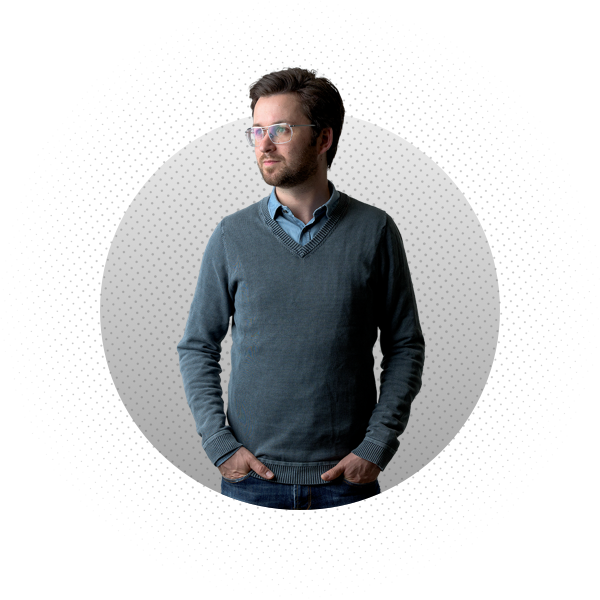
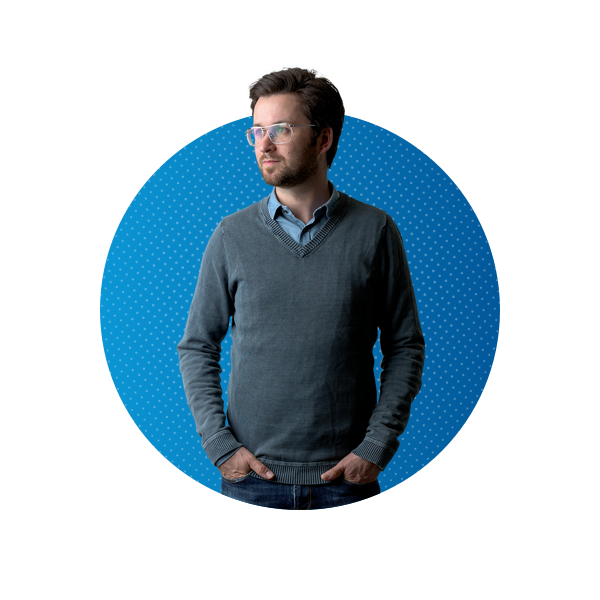
Welcome Seite anpassen und fixen

diff --git a/index.html b/index.html
@@ -109,7 +109,6 @@
 	<section class="navigation">
 
 		<ul id="menu" class="nav justify-content-center">
-
 			<li data-menuanchor="team" class="nav-item col-4">
 				<a class="nav-link" href="#contact">kontakt</a>
 			</li>
@@ -120,6 +119,7 @@
 				<a class="nav-link" href="#team">team</a>
 			</li>
 		</ul>
+
 	</section>
 	<section class="language">
 		<ul class="nav justify-content-center">
@@ -150,7 +150,7 @@
 					</div>
 				</div>
 			</div> -->
-			<div class="slide welcome">
+			<div class="slide welcome first">
 					<div class="intro">
 							<div class="col-12 content">
 								<h3>Welcome to</h3>
@@ -158,16 +158,16 @@
 								<h3 class="uppercase">Virtual Media<br></h1>
 						</div>
 					<div class="col-12 content">
-						<div class="row">
-							<div id="moveToFurniture" class="col-6 text-right logo_welcome">
-								<img class="pull-right" class="" src="assets/img/logos/FurnitureBase.png" />
-								<h3>FurnitureBase</h3>
-								<h4>Möbelvisualisierung</h4>
+						<div class="row justify-content-center">
+							<div id="moveToFurniture" class="col-5 text-right logo_welcome">
+								<img class="pull-right img-fluid logos" src="assets/img/logos/FurnitureBase.png" />
+								<h4>FurnitureBase</h4>
+								<h5>Möbelvisualisierung</h5>
 							</div>
-							<div id="moveToBook" class="col-6 text-left logo_welcome">
-								<img class="pull-left" src="assets/img/logos/BookBase.png" />
-								<h3>BookBase</h3>
-								<h4>Covervisualisierung</h4>
+							<div id="moveToBook" class="col-5 offset-md-1 text-left logo_welcome">
+								<img class="pull-left img-fluid logos" src="assets/img/logos/BookBase.png" />
+								<h4>BookBase</h4>
+								<h5>Covervisualisierung</h5>
 							</div>
 						</div>
 					</div>
@@ -357,12 +357,12 @@
 					</div>
 				</div>
 			</div> -->
-			<div class="slide welcome">
+			<div class="slide welcome book">
 				<div class="intro">
 					<div class="img-background">
 						<div class="col-12 content">
 							<h3>Willkommen bei</h3>
-							<h1>BookBase</h1>
+							<h1>Book Base</h1>
 					</div>
 				</div>
 				<div class="col-12 content">
@@ -373,7 +373,7 @@
 
 		<!-- Slide #5 Advantages / Ihre Vorteile -->
 
-		<div  data-anchor="test" class="slide advantages slide-style-list">
+		<div  data-anchor="test" class="slide book slide-style-list">
 			<div class="intro">
 				<div class="img-background">
 					<div class="col-12 content">
@@ -656,13 +656,26 @@ Abstimmungsaufwände reduzieren sich enorm.</p>
 </body>
 <script type="text/javascript">
 	$(document).on('click', '#moveToCustomer', function(){
-	$.fn.fullpage.moveTo(1, 4);
+	$.fn.fullpage.moveTo(2, 4);
 	});
 	$(document).on('click', '#moveToEverything', function(){
-	$.fn.fullpage.moveTo(1, 5);
+	$.fn.fullpage.moveTo(2, 5);
 	});
 	$(document).on('click', '#moveToCosts', function(){
-	$.fn.fullpage.moveTo(1, 6);
+	$.fn.fullpage.moveTo(2, 6);
+	});
+
+</script>
+
+<script type="text/javascript">
+	$(document).on('click', '#moveToCustomer', function(){
+	$.fn.fullpage.moveTo(2, 4);
+	});
+	$(document).on('click', '#moveToEverything', function(){
+	$.fn.fullpage.moveTo(2, 5);
+	});
+	$(document).on('click', '#moveToCosts', function(){
+	$.fn.fullpage.moveTo(2, 6);
 	});
 
 </script>

diff --git a/assets/css/style.css b/assets/css/style.css
@@ -89,7 +89,7 @@ p.hightlight{
 }
 
 a{
-  color: #fff;
+  color: #6E6E6E;
 
 }
 
@@ -145,6 +145,8 @@ h1.icon.big{
 #overlay .col-3{
   margin-bottom: 10vh;
 }
+
+
 
 .img-overlay{
   position: absolute;
@@ -355,22 +357,48 @@ display: flex;
 
 /* Slide Welcom */
 
-.slide.welcome h3{
-  font-size: 36px;
-  font-weight: bold;
+
+img.logos{
+  max-width: 120px;
+  margin-bottom: 10px;
+}
+
+.slide.welcome.first .intro {
+  max-width: 1100px;
+}
+
+.slide.welcome.first .intro .content{
+  max-width: 1100px;
+  margin-bottom: 70px;
+}
+
+.slide.welcome.first .intro .big_headline{
+  font-size: 90px;
+}
+
+.slide.welcome.first .intro h3{
+  font-size: 20px;
 }
 
 .slide.welcome h4{
-  font-size: 40px;
-  font-weight: lighter;
+  font-size: 30px;
+  margin-bottom: 0px;
+  font-weight: bold;
+  letter-spacing: 1px;
 }
 
-.text-right h4, .text-right h3{
+.slide.welcome h5{
+  font-size: 20px;
+  font-weight: lighter;
+  letter-spacing: 0px;
+}
+
+.text-right h4, .text-right h5{
   text-align: right;
 }
 
-.text-left h4, .text-left h3{
-  text-left: left;
+.text-left h4, .text-left h5{
+  text-align: left;
 }
 
 .logo_welcome{
@@ -483,6 +511,11 @@ display: flex;
   url(../img/bg/wireframeLarge_multiply.png);
 }
 
+.slide.book .img-background{
+  background-image:
+  url(../img/bg/Buch4.png);
+}
+
 .slide.online .img-background{
   background-image:
   url(../img/bg/wireframeLarge_multiply.png);
@@ -539,7 +572,7 @@ display: flex;
 
 .navigation a{
     font-weight: 200;
-    color: #fff;
+    color: #6E6E6E;
 }
 
 .nav-item{
